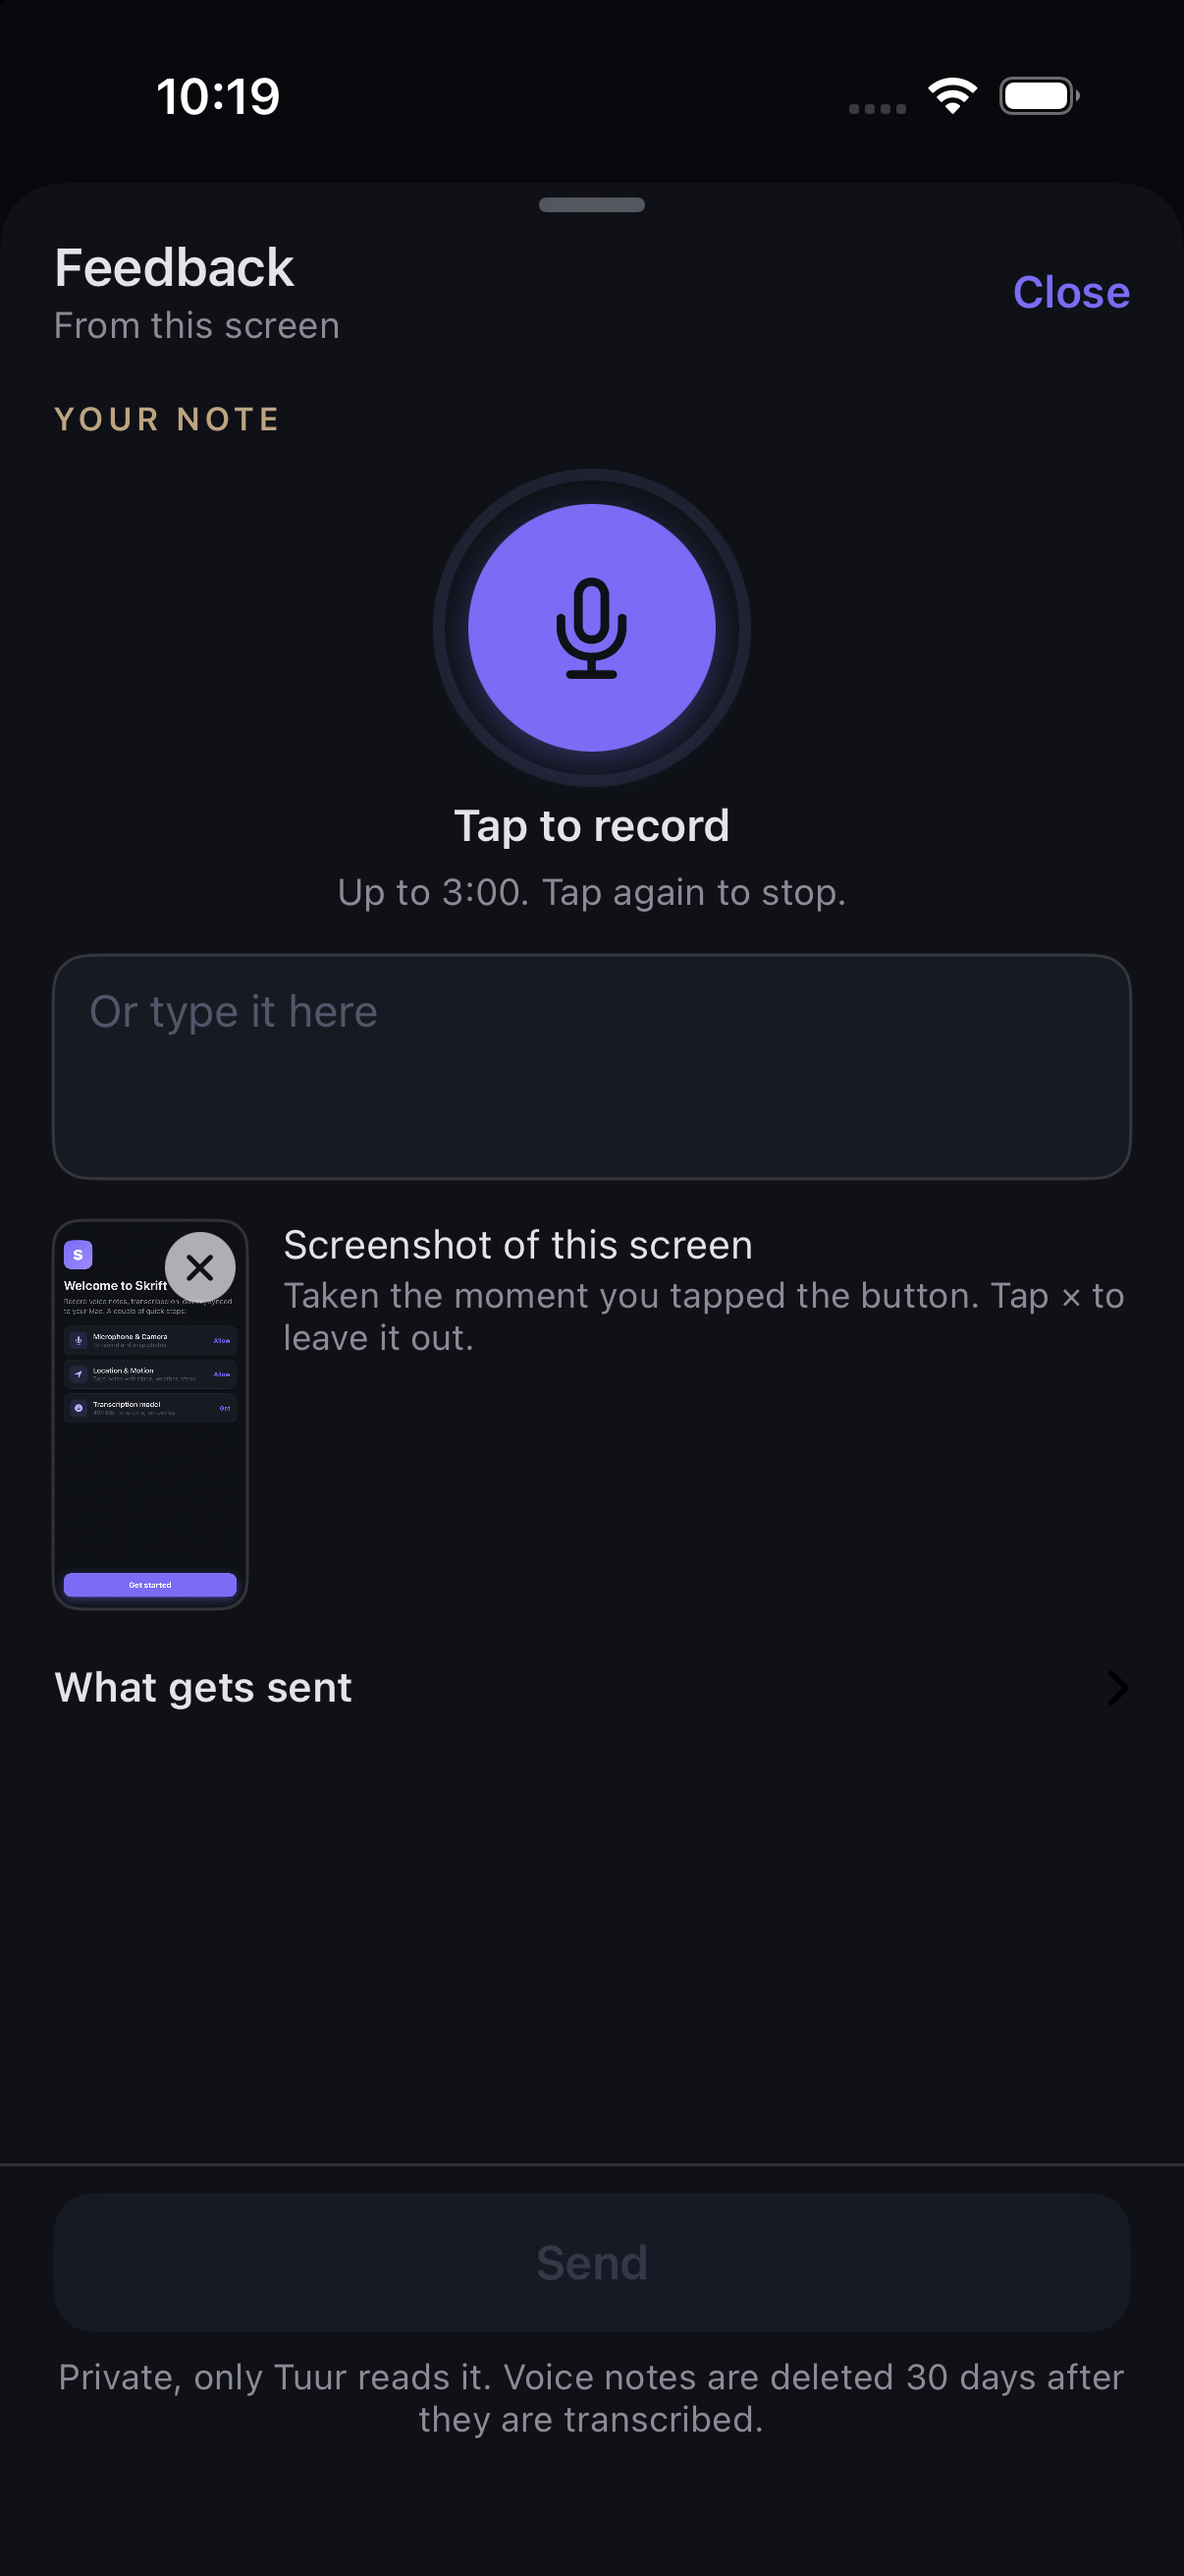
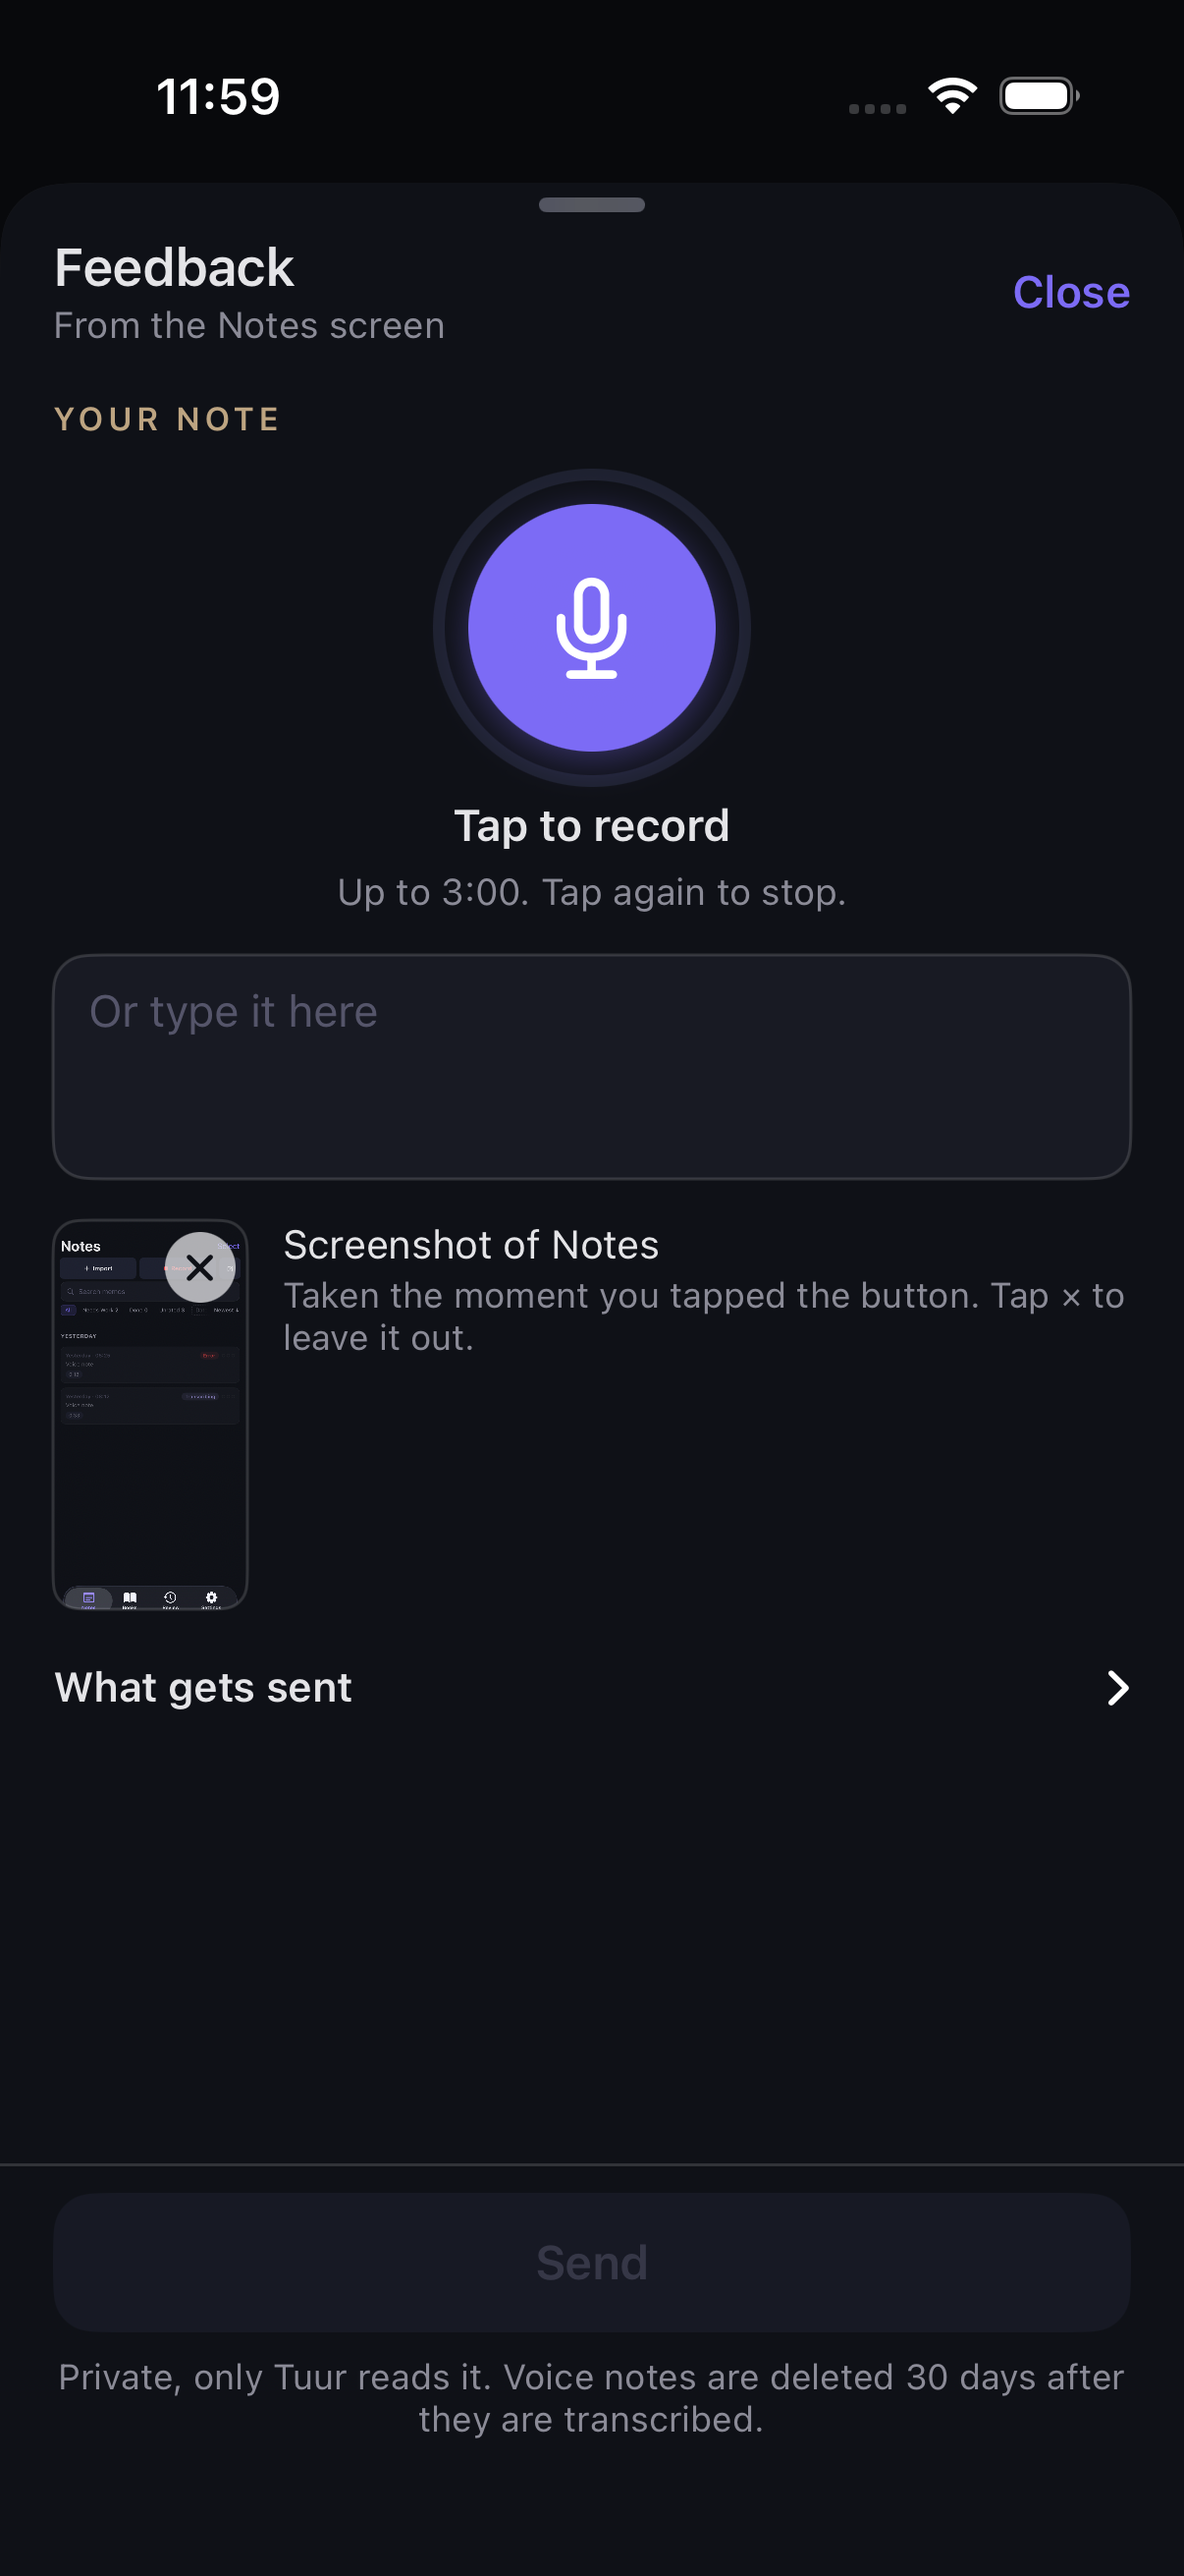
Q305: feedback sheet follows Skrift's theme natively (interfaceStyle unspecified, onAccent white), screenshots

diff --git a/Skrift_Native/SkriftMobile/SkriftMobileUITests/FeedbackQ305ScreenshotUITests.swift b/Skrift_Native/SkriftMobile/SkriftMobileUITests/FeedbackQ305ScreenshotUITests.swift
@@ -1,0 +1,36 @@
+import XCTest
+
+/// Q305 visual check: the FeedbackKit sheet follows Skrift's own theme (Settings -> Theme,
+/// `appTheme`) natively. Screenshots the open sheet in dark and light, with the
+/// "What gets sent" row expanded so its chevron is on screen. PNGs land in
+/// `SKRIFT_SHOT_DIR` (pass it as `TEST_RUNNER_SKRIFT_SHOT_DIR`) and in the xcresult.
+final class FeedbackQ305ScreenshotUITests: XCTestCase {
+
+    private func capture(_ app: XCUIApplication, _ name: String) {
+        Thread.sleep(forTimeInterval: 1.0)
+        let shot = app.screenshot()
+        let attachment = XCTAttachment(screenshot: shot)
+        attachment.name = name
+        attachment.lifetime = .keepAlways
+        add(attachment)
+        if let dir = ProcessInfo.processInfo.environment["SKRIFT_SHOT_DIR"] {
+            try? shot.pngRepresentation.write(to: URL(fileURLWithPath: dir).appendingPathComponent("\(name).png"))
+        }
+    }
+
+    private func openSheet(theme: String, name: String) {
+        let app = XCUIApplication()
+        app.launchArguments = ["-inMemoryStore", "-seedDemoMemos", "-appTheme", theme]
+        app.launch()
+        let button = app.buttons["Feedback"].firstMatch
+        XCTAssertTrue(button.waitForExistence(timeout: 30), "feedback button missing (no key?)")
+        button.tap()
+        XCTAssertTrue(app.staticTexts["From the Notes screen"].firstMatch.waitForExistence(timeout: 10))
+        capture(app, name)
+        let sent = app.descendants(matching: .any)["What gets sent"].firstMatch
+        if sent.exists { sent.tap(); capture(app, "\(name)-sent") }
+    }
+
+    func testSheetDark() { openSheet(theme: "dark", name: "sheet-dark") }
+    func testSheetLight() { openSheet(theme: "light", name: "sheet-light") }
+}

diff --git a/FEATURES.md b/FEATURES.md
@@ -372,7 +372,7 @@ Mirrors the SwiftData store to the user's PRIVATE CloudKit database so notes syn
 | Theme (Light/Dark/Auto) | ✅ | ✅ | `SettingsView.swift` | |
 | Auto-copy transcript to clipboard | ✅ | ➖ | mobile `SettingsView.swift` (toggle); `MemoSaver.swift` (`autoCopyIfEnabled`) | 2026-06-11: opt-in, **default OFF** (user-locked). On transcription success (record/import/append) the final transcript lands on the pasteboard; appends copy the combined text |
 | Send feedback (Settings row → FeedbackKit sheet) | ✅ | ➖ | mobile `Features/Settings/SettingsView.swift` → `FeedbackKitWiring.openFeedback()` | 2026-10-04 Q301: the old Mail-based screen (`FeedbackCaptureView`, `FeedbackMailComposer`, `FeedbackStore`) is deleted; the row opens the kit sheet. Desktop port deferred |
-| In-app feedback button (FeedbackKit, app id `skrift`) | 🌓 | ➖ | mobile `Features/Feedback/FeedbackKitWiring.swift` (start + `FeedbackVoicePause` rule + `FeedbackAudioGate`), `project.yml` (local package at the absolute `~/Hackerman/feedback-kit` path, `FeedbackAppID`/`FeedbackKey`), `Config/Feedback.xcconfig` (key included from `~/.config/feedback-kit/skrift.xcconfig`, never in git) | 2026-10-04 Q299/D179: floating button over every screen and sheet (phone + iPad); sheet = questions, voice, text, screenshot, outbox to the feedback server. Screens tagged Notes / Note / Record / Books / Player / Review / Settings / Quick note / Quote capture. Voice notes are paused while Skrift records (incl. live caption), plays a book or memo, or the quote-capture flow is open — driven from `LiveRecordingService.activeService`, `AudioPlayerModel.nowPlaying`, `AudiobookSession.isPlaying` and the capture flow. Sim sheet verified; the audio interplay on device is UNVERIFIED. Mac untouched. 2026-10-04 Q300: sheet + button use Skrift's Palette (`FeedbackPalette`), dark and light, following Settings → Theme (the kit forces the sheet light, so the colours read `appTheme` themselves); sim-verified, screenshots `plan/reads/feedback-kit/{sheet,button}-{dark,light}.png`. Kit limits: the "What gets sent" chevron stays near-black on dark, and the mic glyph is drawn in the page colour (dark on purple in dark mode) |
+| In-app feedback button (FeedbackKit, app id `skrift`) | 🌓 | ➖ | mobile `Features/Feedback/FeedbackKitWiring.swift` (start + `FeedbackVoicePause` rule + `FeedbackAudioGate`), `project.yml` (local package at the absolute `~/Hackerman/netcup-server` path, `FeedbackAppID`/`FeedbackKey`), `Config/Feedback.xcconfig` (key included from `~/.config/feedback-kit/skrift.xcconfig`, never in git) | 2026-10-04 Q299/D179: floating button over every screen and sheet (phone + iPad); sheet = questions, voice, text, screenshot, outbox to the feedback server. Screens tagged Notes / Note / Record / Books / Player / Review / Settings / Quick note / Quote capture. Voice notes are paused while Skrift records (incl. live caption), plays a book or memo, or the quote-capture flow is open — driven from `LiveRecordingService.activeService`, `AudioPlayerModel.nowPlaying`, `AudiobookSession.isPlaying` and the capture flow. Sim sheet verified; the audio interplay on device is UNVERIFIED. Mac untouched. 2026-10-04 Q300: sheet + button use Skrift's Palette (`FeedbackPalette`), dark and light. 2026-10-04 Q305: the sheet follows Skrift's theme natively (`interfaceStyle: .unspecified`, `onAccent: .white`, plain `Color.skDynamic` tokens; the UIColor-provider workaround is gone); sim-verified with the system style opposite the app theme, chevron and mic glyph legible in both, screenshots `plan/reads/feedback-kit/sheet-{dark,light}{,-sent}.png` |
 
 ## Widgets / intents / share *(mobile)*
 
